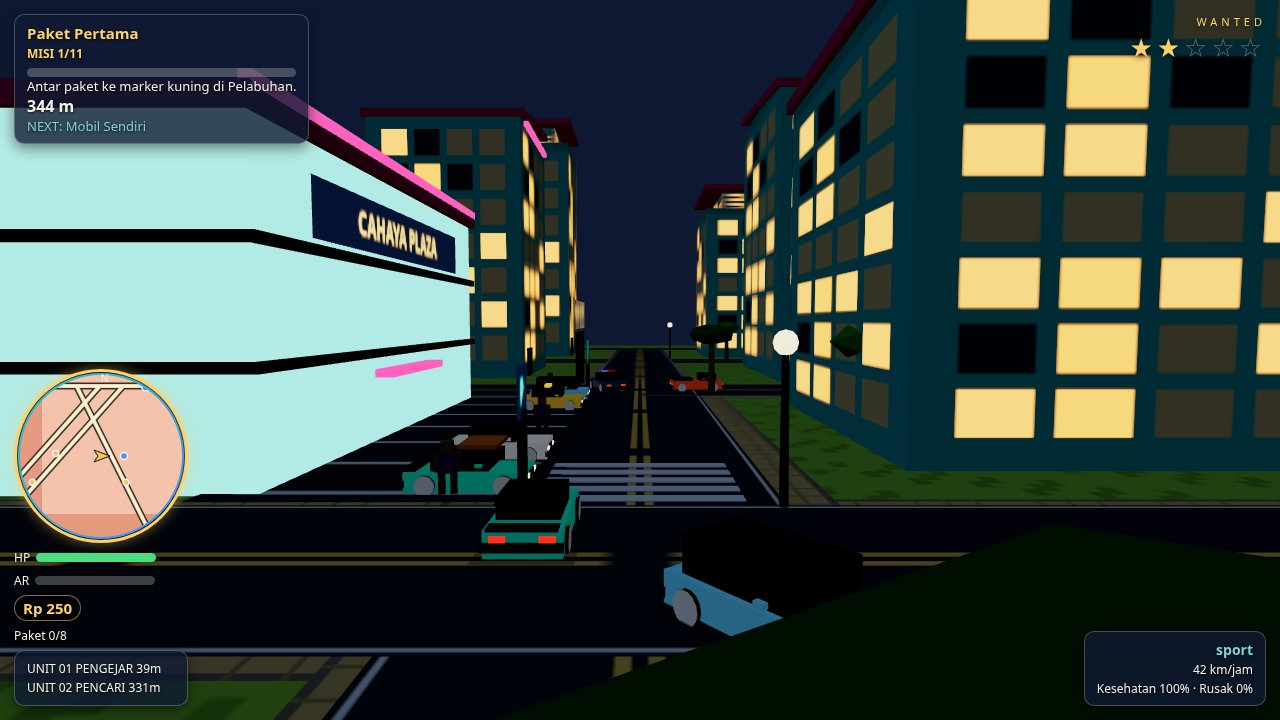
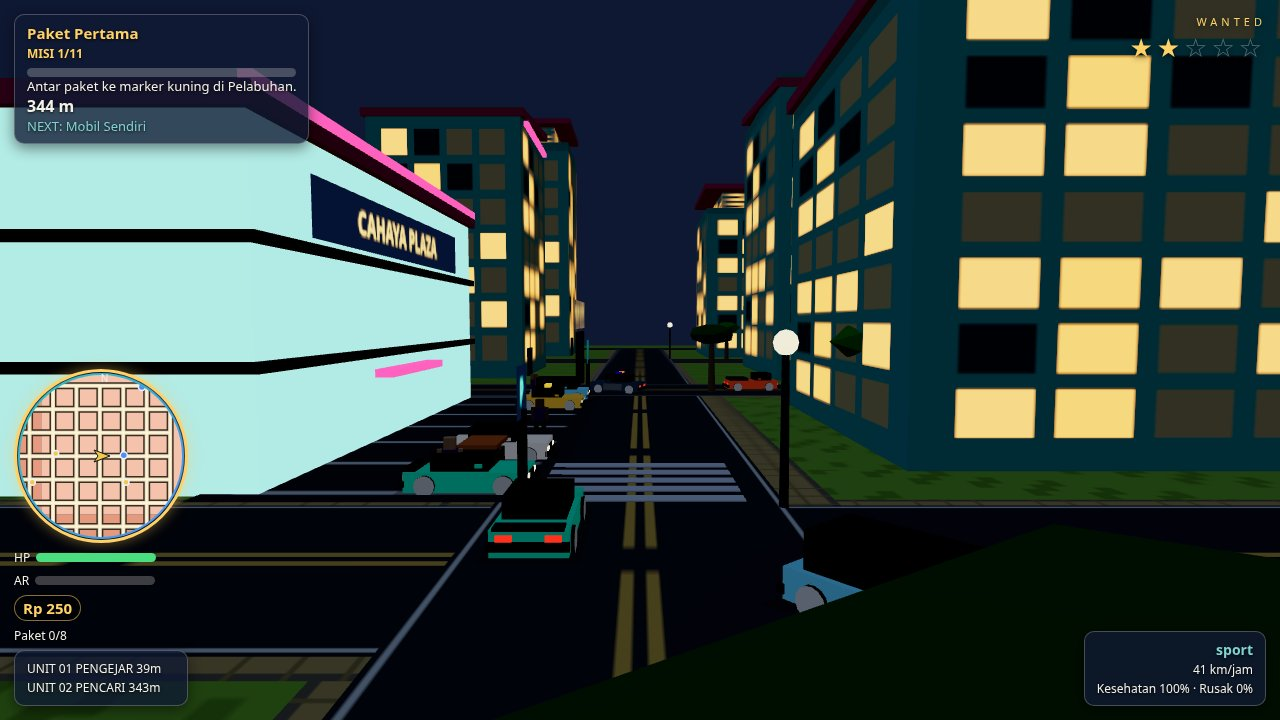
M31: perbaiki jalan minimap (resolveEndpoint via nodeById, 267/267 edge)

diff --git a/game/src/hud.js b/game/src/hud.js
@@ -22,7 +22,7 @@ function formatJam(t) {
 
 function normPoint(p) { if (!p || typeof p !== 'object') return null; return { x: typeof p.x === 'number' ? p.x : 0, z: typeof p.z === 'number' ? p.z : typeof p.y === 'number' ? p.y : 0 }; }
 
-function resolveEndpoint(end, nodes) { return normPoint(typeof end === 'number' ? (nodes ? nodes[end] : null) : end); }
+function resolveEndpoint(end, nodes) { return normPoint(typeof end === 'number' ? (nodes ? nodes.get(end) : null) : end); }
 
 function edgePoints(edge, nodes) {
   if (!edge) return null;
@@ -170,7 +170,7 @@ export function createHud() {
       mm.lineWidth = 7;
       mm.beginPath();
       for (const edge of graph.edges) {
-        const pts = edgePoints(edge, graph.nodes);
+        const pts = edgePoints(edge, graph.nodeById);
         if (!pts) continue;
         if (!inView(pts.a.x, pts.a.z) && !inView(pts.b.x, pts.b.z)) continue;
         mm.moveTo(toX(pts.a.x), toY(pts.a.z));
